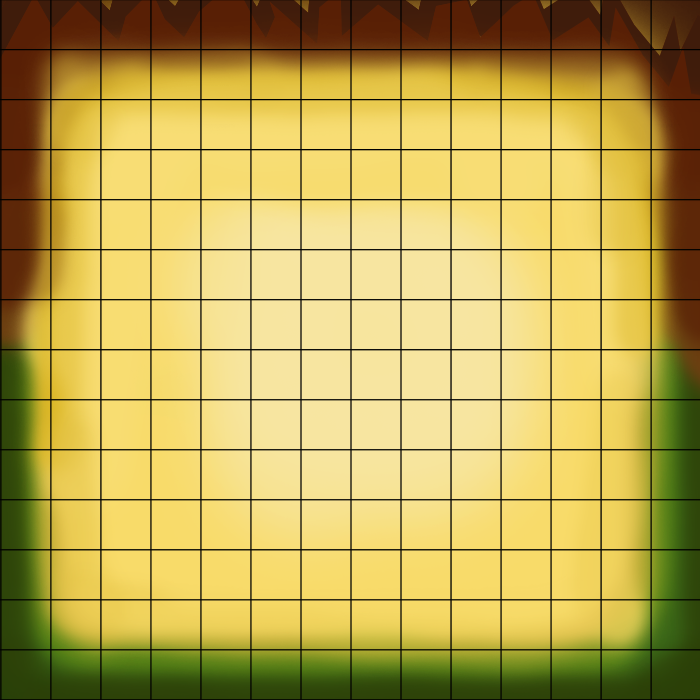
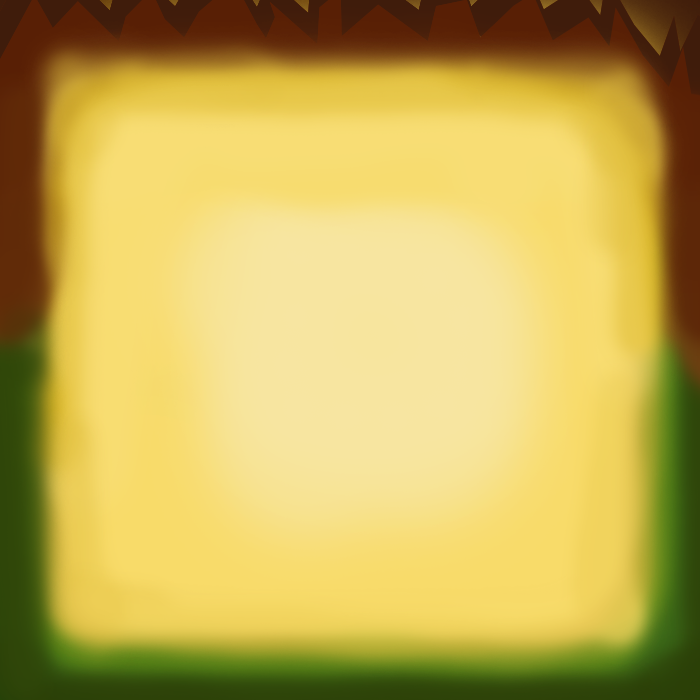
made changes to the board views

diff --git a/src/Views/BoardPanel.java b/src/Views/BoardPanel.java
@@ -26,15 +26,10 @@ public class BoardPanel extends JPanel {
 	private HashMap<String, String> imageSourceHashMap;
 	public boolean replaying = false;
 
-	public BoardPanel(){
-		System.out.println("Board Panel is created.");
-		
+	public BoardPanel(){		
 		initHashMap();
 		getBackgroundImage();
-		Dimension size = new Dimension(board.getWidth(), board.getHeight());
-		setMinimumSize(size);
-		setMaximumSize(size);
-		setPreferredSize(size);
+		setPreferredSize(new Dimension(board.getWidth(), board.getHeight()));
 		
 		this.tileImage = new BufferedImage(board.getWidth(), board.getHeight(), BufferedImage.TYPE_INT_ARGB);
 		this.developers = new BufferedImage(board.getWidth(), board.getHeight(), BufferedImage.TYPE_INT_ARGB);
@@ -43,13 +38,14 @@ public class BoardPanel extends JPanel {
 	
 	private void getBackgroundImage(){
 		board = getImage(imageSourceHashMap.get("board"));
+		drawLines(board);
 		repaint();
 	}
 	
-//	public void repaint() {
-//		if(!replaying)
-//			super.repaint();
-//	}
+	public void repaint() {
+		if(!replaying)
+			super.repaint();
+	}
 	
 	private BufferedImage getImage(String source){
 		BufferedImage returnImage = null;
@@ -68,10 +64,8 @@ public class BoardPanel extends JPanel {
 		g2d.rotate(rotationState*Math.PI/2, xLoc+25, yLoc+25);
 		//g2d.scale(-0.1*elevation, -0.1*elevation);
 		g2d.drawImage(getImage(imageSourceHashMap.get(hashMapKey)), null, xLoc, yLoc);
-		g2d.setColor(Color.RED);
-		g2d.drawString(""+elevation, xLoc+35, yLoc+35);
 		g2d.dispose();
-		//drawElevationLabel(xLoc, yLoc, rotationState, elevation, hashMapKey);
+		drawElevationLabel(xLoc, yLoc, rotationState, elevation, hashMapKey);
 		
 		repaint();
 		System.out.println("placed tile");
@@ -179,27 +173,43 @@ public class BoardPanel extends JPanel {
 	}
 	
 	private void drawElevationLabel(int xLoc, int yLoc, int rotationState, int elevation, String hashMapKey){
-		System.out.println("drawing elevation label");
-		int imageWidth = 50;
-		int imageHeight = imageWidth;
+		System.out.println("drawing elevation label rotation state: "+rotationState);
+		int xStringLoc = xLoc+35;
+		int yStringLoc = yLoc+35;
 		g2d = tileImage.createGraphics();
-		if(hashMapKey.equals("threeTile")){
-			imageWidth *= 2;
-			imageHeight = imageWidth;
-		}
-		else if(hashMapKey.equals("twoTile")){
-			imageWidth *= 2;
-		}
-		else{
-			//draw the elevation with no restrictions
-			System.out.println("drawing the elevation");
-			//g2d.setStroke(new BasicStroke(2.0f, BasicStroke.CAP_ROUND, BasicStroke.JOIN_ROUND));
-
-			
-		}
+		g2d.setStroke(new BasicStroke(2.0f, BasicStroke.CAP_ROUND, BasicStroke.JOIN_ROUND));
+		g2d.setColor(Color.RED);
+		g2d.drawString(""+elevation, xStringLoc, yStringLoc);
 		
-		
-		
+		if(hashMapKey.equals("twoTile") || hashMapKey.equals("threeTile")){
+			boolean ifThree = false;
+			if(hashMapKey.equals("threeTile")) ifThree = true;
+			for(int i = 0; i < 2; i++){
+				if(rotationState == 0){
+					//draw right
+					g2d.drawString(""+elevation, xStringLoc+50, yStringLoc);
+				}
+				else if(rotationState == 1){
+					//draw bottom
+					g2d.drawString(""+elevation, xStringLoc, yStringLoc+50);
+				}
+				else if(rotationState == 2){
+					//draw left
+					g2d.drawString(""+elevation, xStringLoc-50, yStringLoc);
+				}
+				else if(rotationState == 3){
+					//draw top
+					g2d.drawString(""+elevation, xStringLoc, yStringLoc-50);
+				}
+				
+				if(ifThree){
+					//do again but increase the rotation state
+					rotationState = (rotationState + 1) % 4;
+				}
+				else
+					break;
+			}
+		}
 		g2d.dispose();
 	}
 	
@@ -217,6 +227,17 @@ public class BoardPanel extends JPanel {
 		g2d.fillRect(x, y, 50, 50);
 		g2d.setComposite(AlphaComposite.getInstance(AlphaComposite.SRC_OVER));
 		g2d.dispose();
+	}
+	
+	private void drawLines(BufferedImage image){
+		g2d = image.createGraphics();
+		g2d.setColor(Color.black);
+		for(int i = 50; i < image.getWidth(); i+=50){
+			//columns
+			g2d.drawLine(i, 0, i, image.getWidth());
+			//rows
+			g2d.drawLine(0, i, image.getHeight(), i);
+		}
 	}
 	
 	private void initHashMap(){

diff --git a/src/Views/GameContainerPanel.java b/src/Views/GameContainerPanel.java
@@ -34,7 +34,7 @@ public class GameContainerPanel extends JPanel {
 		
 		initHashMap();
 		setMaximumSize(new Dimension(WIDTH, HEIGHT));
-		setBorder(BorderFactory.createEmptyBorder(0, 25, 30, 25));
+		setBorder(BorderFactory.createEmptyBorder(0, 25, 10, 25));
 		
 		toggleGameModeButton = new JButton("Play Mode");
 		replayModeButton = new JButton("Replay");
